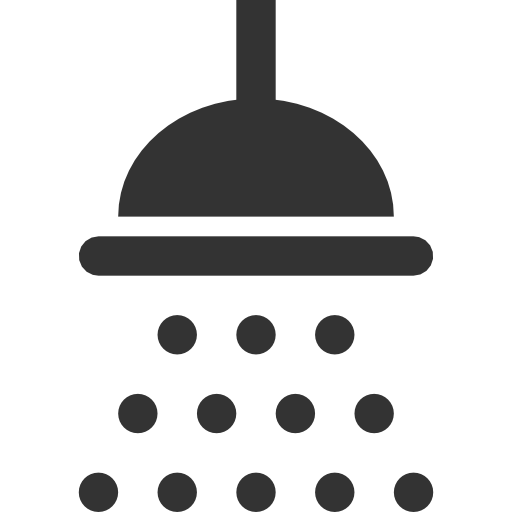
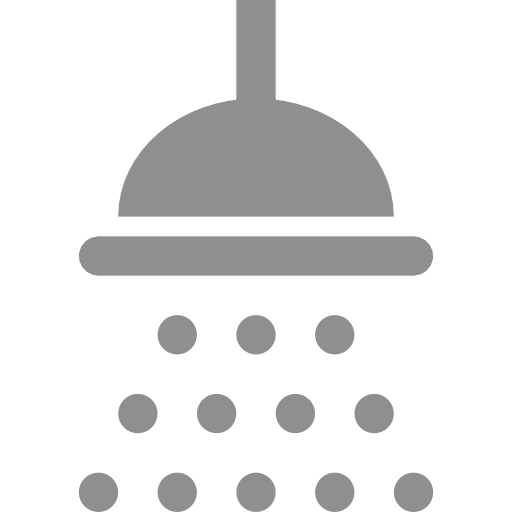
first

diff --git a/pages/extraopties.html b/pages/extraopties.html
@@ -18,8 +18,8 @@ title: De Kotmadam
                 <img class="icon_EO" src="{{ 'assets/images/breakfast.png' | relative_url }}">
             </div>
             <div class="collapse" id="breakfast">
-                <p>Ontbijt op bed:<br>
-                Het ontbijt bestaat uit een croissant, chocoladekoek, 2 pistolés (belegd met kaas, hesp, nutella of confituur) en drankje naar keuze (een glas fruitsap, melk of een tas koffie). Wij maken dit voor jou klaar tussen 8 en 10u. Dit allemaal voor slechts €7 extra.</p>
+                <p class="subtitle_EO">Ontbijt op bed</p><br>
+                <p>Ontbijt bestaat uit een croissant, chocoladekoek, 2 pistolés (belegd met kaas, hesp, nutella of confituur) en drankje naar keuze (een glas fruitsap, melk of een tas koffie). Wij maken dit voor jou klaar tussen 8 en 10u voor slechts €7 extra.</p>
             </div>
         </div>
         <div class="col-xs-12 col-lg-4 normal_text" align="center">
@@ -27,9 +27,9 @@ title: De Kotmadam
                 <img class="icon_EO" src="{{ 'assets/images/lunch.png' | relative_url }}">
             </div>
             <div class="collapse" id="lunch">
-                <p>Lunchpakket:<br>
-                    Wil je ook een extra middagmaal om mee te nemen  bijvoorbeeld voor onderweg? 
-                    Wij bieden ook een lunchpakket naar keuze aan. Je kunt kiezen tussen een spaghetti bolognaise, quinoasalade of gewoon een broodje. Ook slechts voor €8 extra.</p>
+                <p class="subtitle_EO">Lunchpakket</p><br>
+                <p>Wil je ook een middagmaal om mee te nemen? 
+                    Wij bieden een lunchpakket naar keuze aan. Je kan kiezen tussen een spaghetti bolognaise, quinoasalade of een broodje. De spaghetti bolognaise en quinoasalade zijn €8 extra. De broodjes smos of kaas zijn €3,5.</p>
             </div>
         </div>
         <div class="col-xs-12 col-lg-4 normal_text" align="center">
@@ -37,8 +37,8 @@ title: De Kotmadam
                 <img class="icon_EO" src="{{ 'assets/images/douche.png' | relative_url }}">
             </div>
             <div class="collapse" id="douche">
-                <p>Douche:<br>
-                    U kunt zich ook douchen natuuurlijk voor slechts €2 extra. Je krijgt toegang tot onze badkamer en mag gebruik maken van een verse handdoek, de zeep natuurlijk.</p>
+                <p class="subtitle_EO">Douche</p><br>
+                <p>Voor slechts €2 extra kan je hier ook de volgende morgen onze douche gebruiken. Je krijgt toegang tot onze badkamer en mag gebruik maken van een verse handdoek en zeep. Met onze waterrekening en onze milieubewuste ingesteldheid in het achterhoofd laten wij onze logés maximaal een uur in de badkamer.</p>
             </div>
         </div>
     </div>

diff --git a/_sass/_main.scss b/_sass/_main.scss
@@ -229,13 +229,18 @@ p {
 /* pagina extra opties */
 
 .icon_EO {
-  width: 50%;
+  width: 20%;
   align-self: center;
   margin-bottom: 50px;
+  color: #908F8F;
 }
 
 #text_EO {
   margin-bottom: 70px;
+}
+
+.subtitle_EO {
+  font-size: 1.3em;
 }
 
 /* pagina reserveren */
@@ -340,12 +345,15 @@ body {font-family: Verdana, sans-serif;}
   color: white;
   font-family: 'Cagliostro', sans-serif;
   line-height: 1.5;
-  margin-top: 70px;
-  margin-bottom: 100px;
   text-align: center;
   background-image: url(http://www.publicdomainpictures.net/pictures/90000/velka/question-marks-background.jpg);
   background-size: 700px;
   border: 7px double black;
+}
+
+#contact_pagina {
+  margin-top: 100px;
+  margin-bottom: 100px;
 }
 
 #nog_vragen {
@@ -361,8 +369,8 @@ body {font-family: Verdana, sans-serif;}
   color: white;
   font-family: 'Cagliostro', sans-serif;
   line-height: 1.5;
-  margin: auto; 
-  margin-bottom: 250px;
+  margin-top: 130px;
+  margin-left: 40px;
   text-align: center;
 }
 

diff --git a/pages/contact.html b/pages/contact.html
@@ -5,7 +5,7 @@ layout : default
 title: De Kotmadam 
 ---
 <div class="container">
-    <div class="row justify-content-md-center">
+    <div class="row" id="contact_pagina">
         <div class="col-xs-12 col-sm-12 col-lg-7" id="contact_layout">
             <form action="/action_page.php" class="w3-container w3-card-4 w3-white" id="formulier_vragen">
                 <h4 class="w3-center" id="nog_vragen">Nog vragen?</h4>
@@ -37,8 +37,8 @@ title: De Kotmadam
                 <button class="w3-button w3-block w3-section w3-light-grey w3-padding">Verstuur</button>
             </form>
         </div>
-        <div class="col-xs-6 col-sm-6 col-lg-3" id="bellen">
-            <p>
+        <div class="col-xs-12 col-sm-12 col-lg-5">
+            <p id="bellen">
                 BELLEN 
                 <br>Yentl: +32 (0)496 00 22 00
                 <br>Fien: + 32 (0)496 22 00 22

diff --git a/pages/overons.html b/pages/overons.html
@@ -11,10 +11,8 @@ title: De Kotmadam
         </div>
     </div>
     <div class="row">
-        <div class="col-6">
+        <div class="col-xs-12 col-sm-12 col-lg-6">
                 Wij zijn Fien Osselaer en Yentl Van der Plas, twee studenten die Grafische en Digitale Media studeren aan de Arteveldehogeschool. Wij huren samen een ruim appartement in het hartje van Gent. Aangezien wij een kamer vrij
-        </div>
-        <div class="col-6">
                 hebben, verhuren wij deze aan jongeren die tijdelijk een slaapplaats zoeken. Zoek je voor één avond een slaapplaats of ga je een avondje uit? Vermijdt dat je in de vroege uurtjes de trein moet nemen en reserveer nu!                
         </div>
     </div>

diff --git a/pages/reserveren.html b/pages/reserveren.html
@@ -4,8 +4,8 @@ layout : default
 # ───────────────────── 
 title: De Kotmadam 
 ---
-<div class="container reserveren">
-    <div class="row">
+<div class="container">
+    <div class="row reserveren">
         <div class="col-xs-12 col-sm-12 col-lg-8">
             <div class="month">
                 <ul>

diff --git a/_sass/_custom.scss b/_sass/_custom.scss
@@ -51,11 +51,19 @@
   #balk_text_reserveren {
     margin-top: 40px;
   }
+  
+  #bellen {
+    margin-left: 0px;
+  }
+
+  .home_bed {
+    width: 150%;
+  }
  }
  
  @media only screen and (min-width: 992px) {
   .icon_EO {
-    width: 20%;
+    width: 30%;
   }
  }
  
